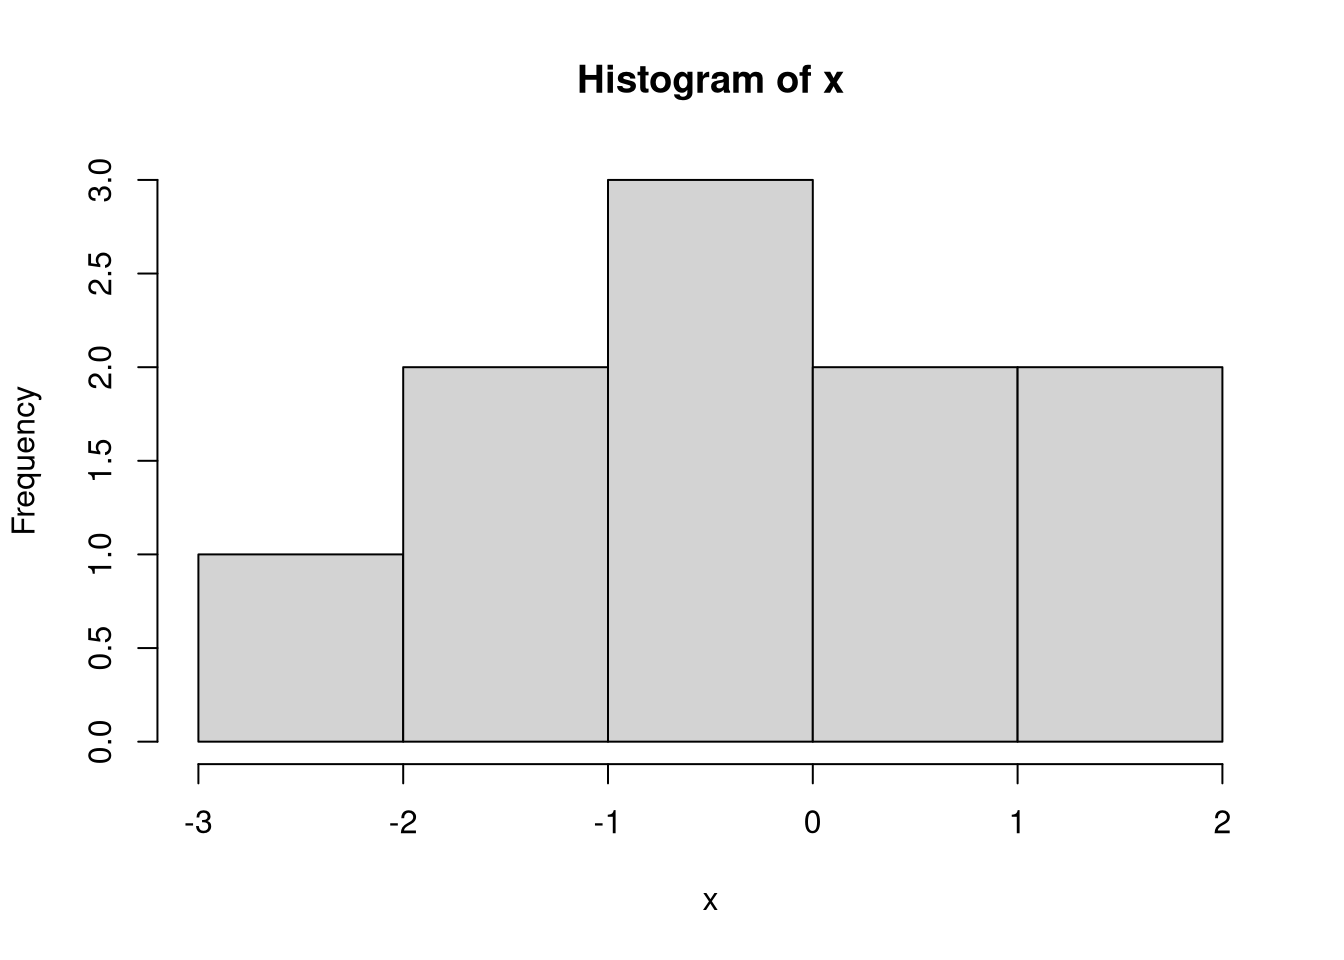
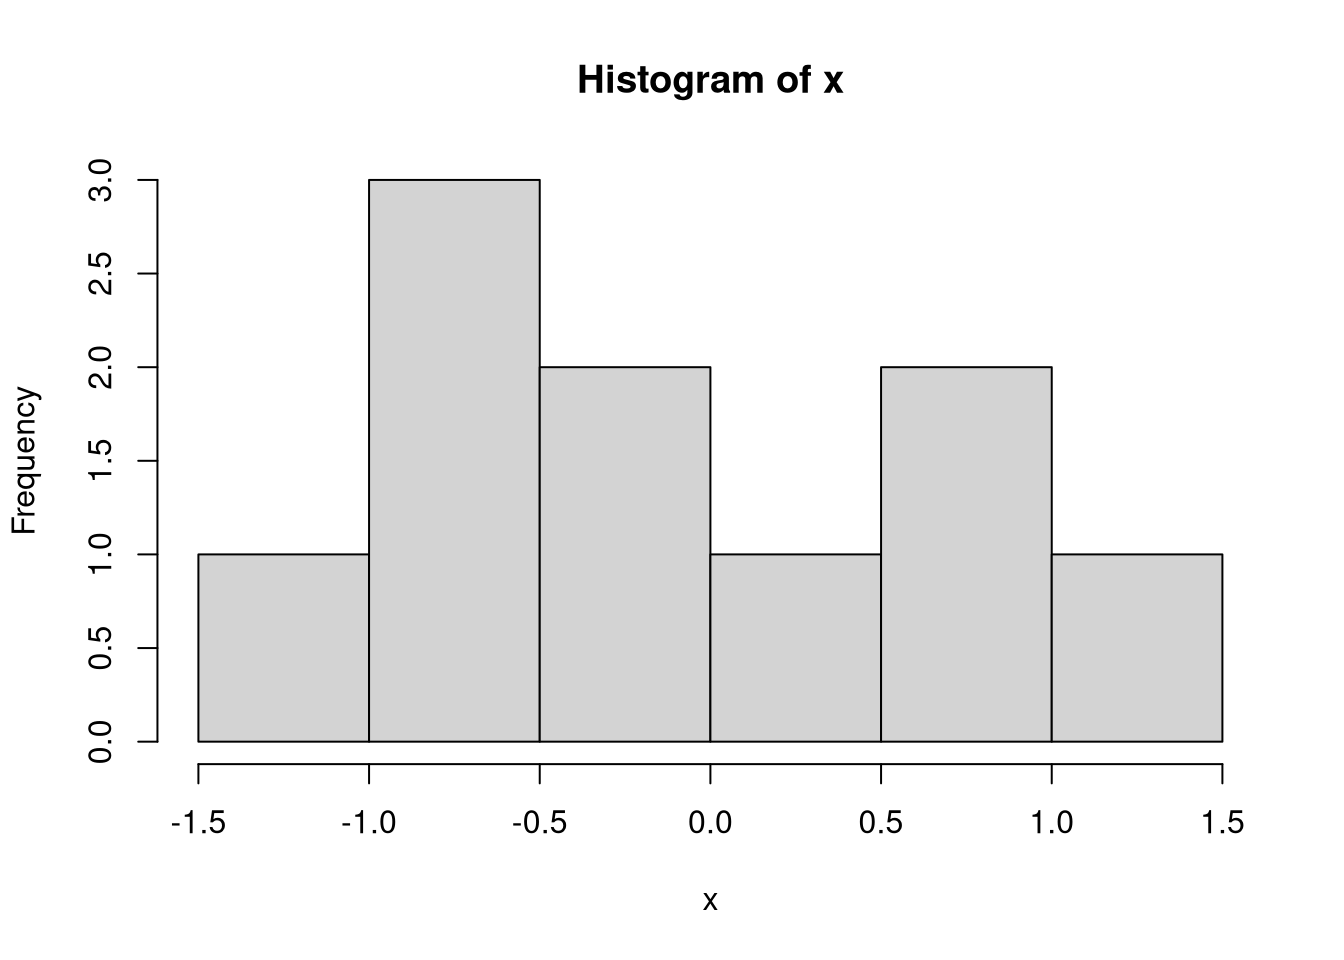
Termina post

diff --git a/content/blog/2020-08-04-post-de-teste.html b/content/blog/2020-08-04-post-de-teste.html
@@ -20,8 +20,10 @@ images:
 <p>Outra coisa.</p>
 <pre class="r"><code>x &lt;- rnorm(10)
 x</code></pre>
-<pre><code>##  [1] -0.91575122  1.30066540 -0.31036730  0.06381931  0.86394954 -1.22452886
-##  [7]  1.02694138 -1.09506786 -2.54540776 -0.48016903</code></pre>
+<pre><code>##  [1] -0.6058288  1.0542707  0.5688223  0.1076508  0.8309159 -1.2528606
+##  [7] -0.2866048 -0.1439541 -0.9007897 -0.7653428</code></pre>
 <p>Um gráfico</p>
 <pre class="r"><code>hist(x)</code></pre>
 <p><img src="/blog/2020-08-04-post-de-teste_files/figure-html/unnamed-chunk-2-1.png" width="672" /></p>
+<p>O Poisson</p>
+<p><img src="/blog/2020-08-04-post-de-teste_files/poisson.jpg" style="width:80.0%;height:80.0%" /></p>
